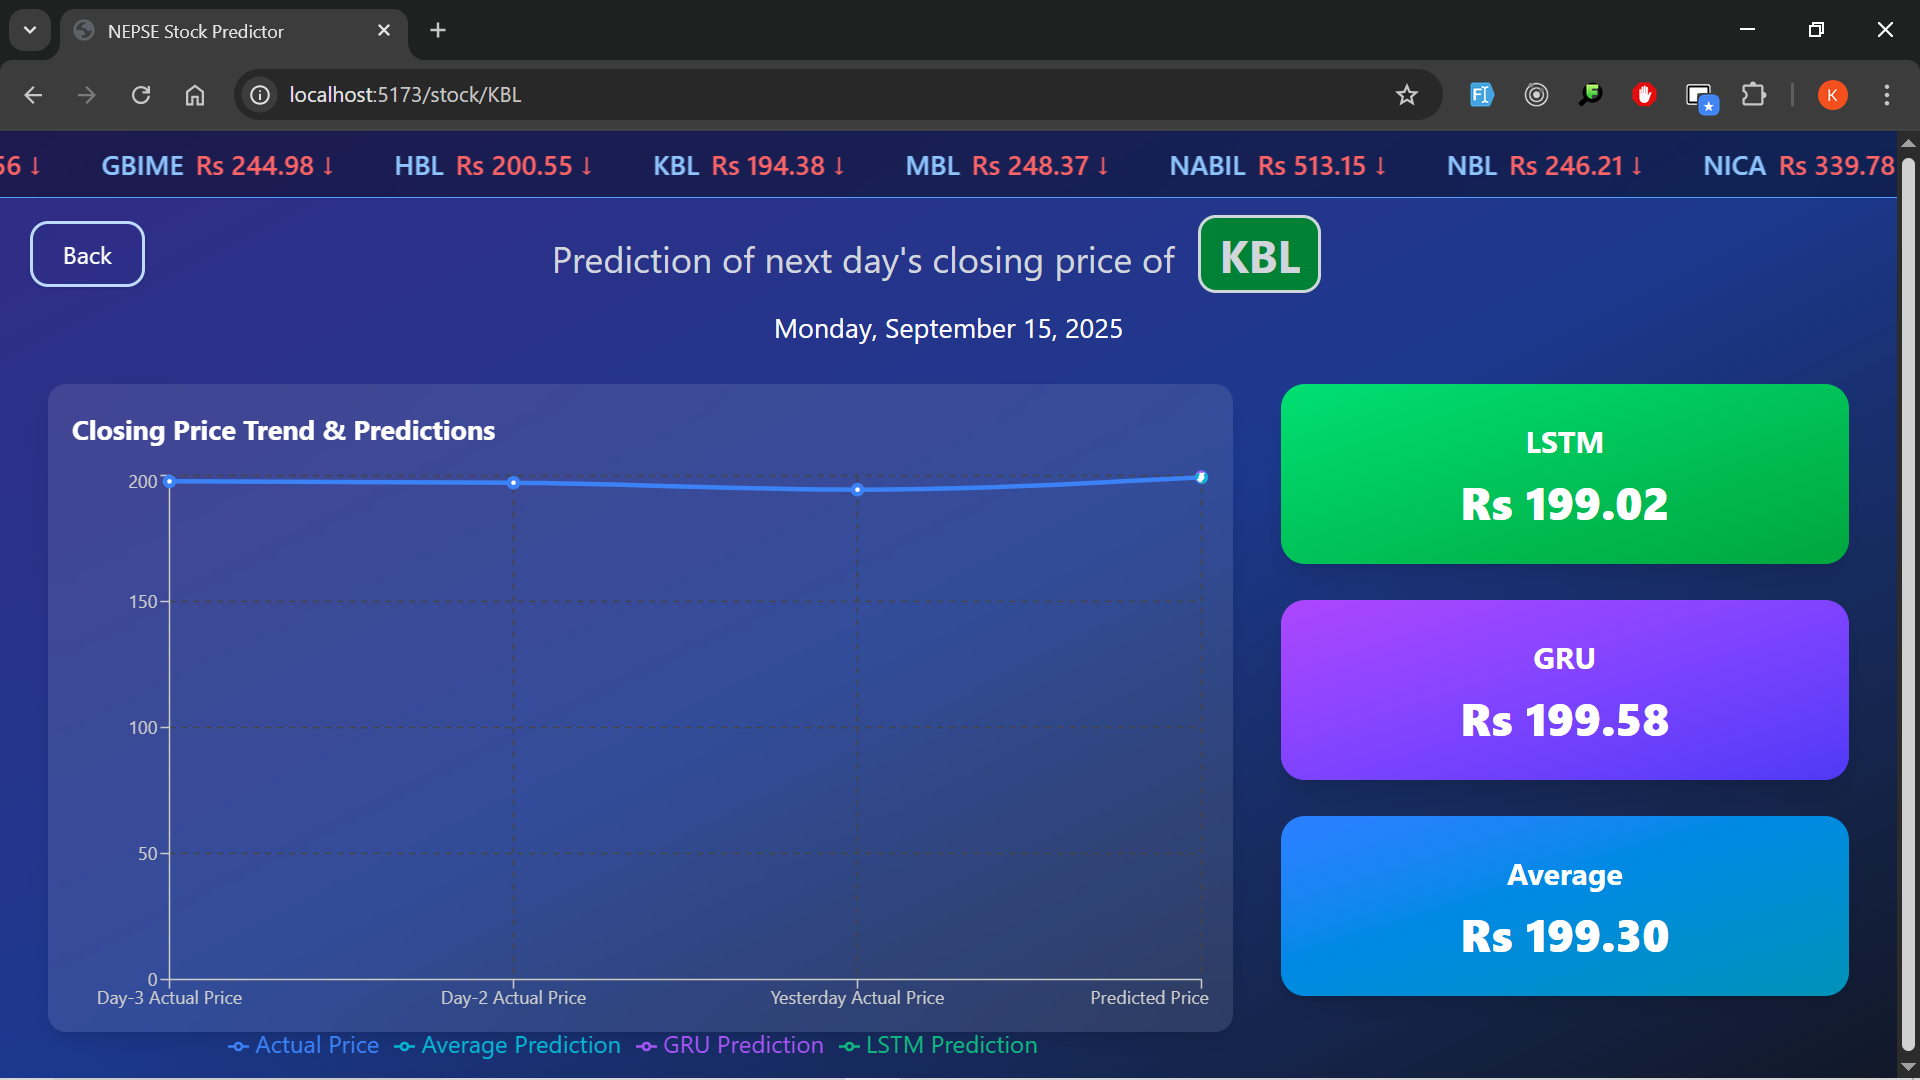
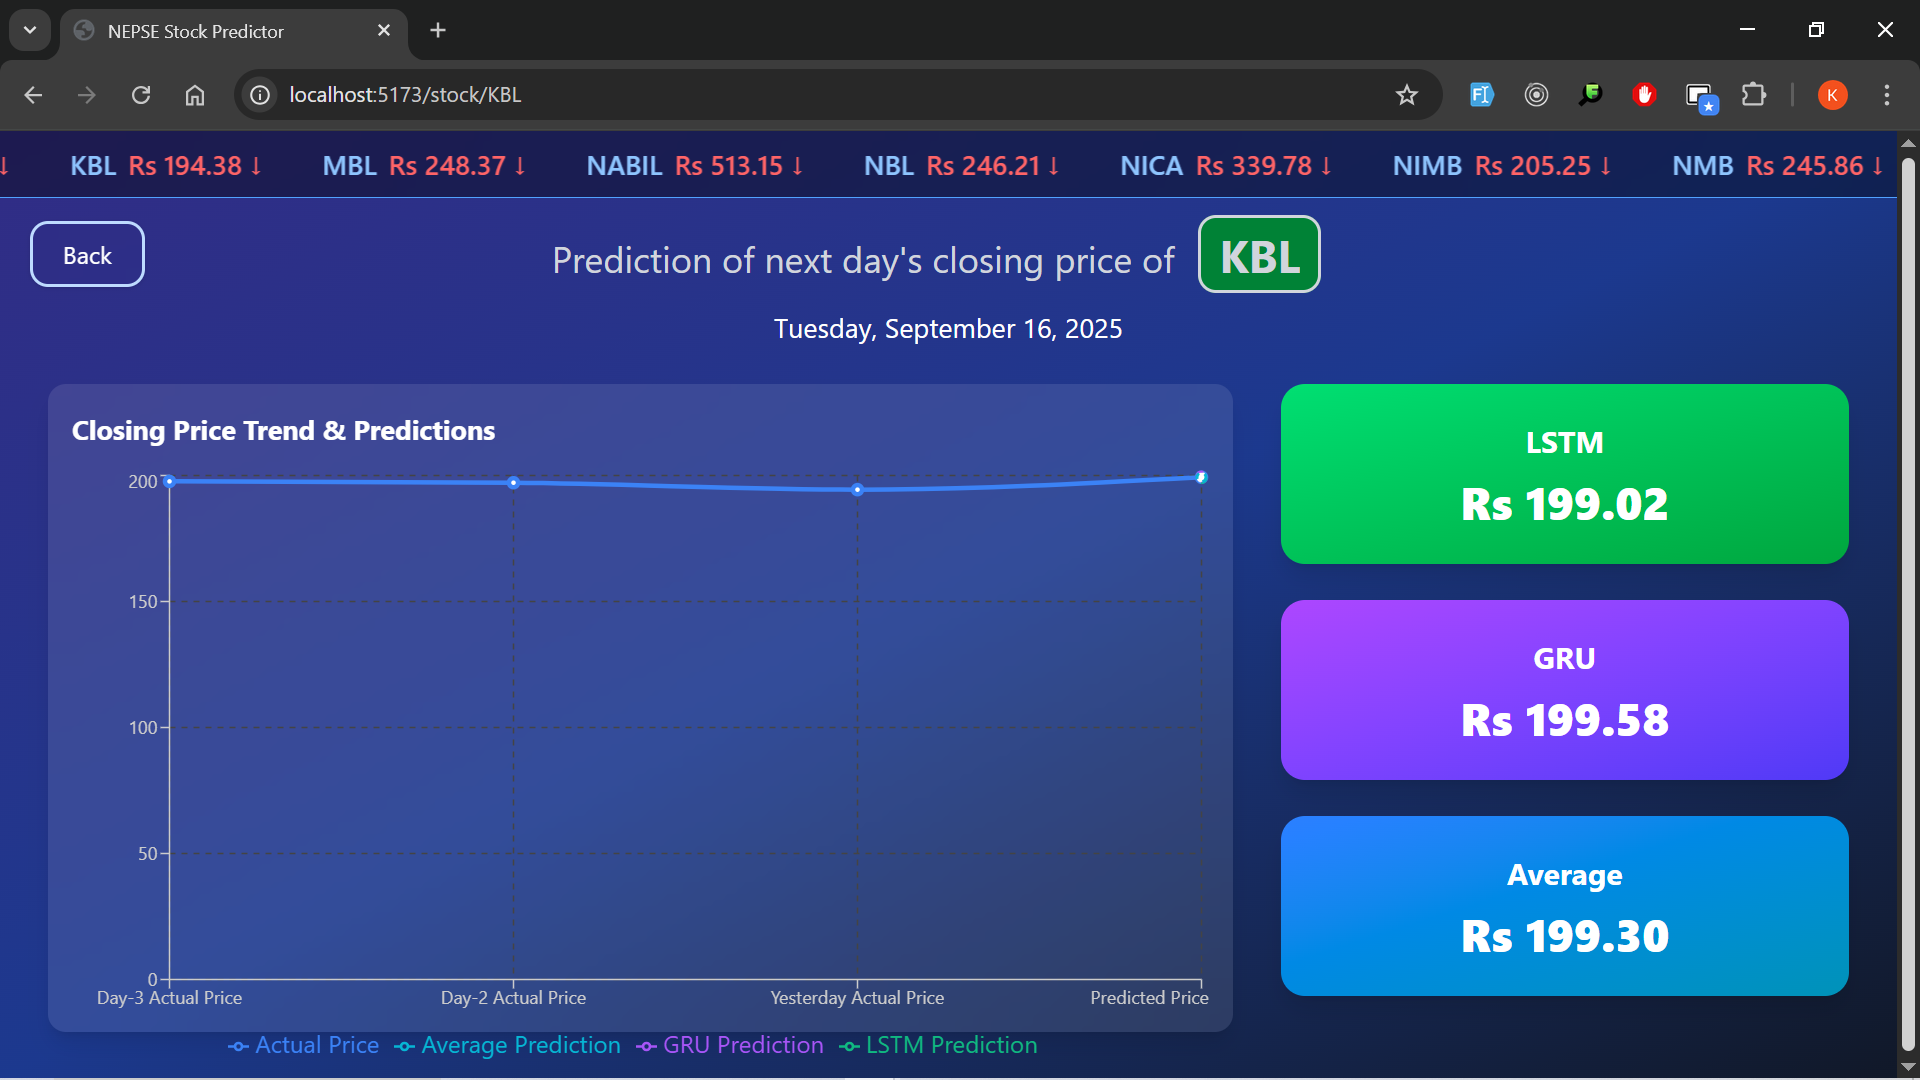
Update stock prediction date display and fix CSV output filename

Changed region(s): [[0.0312, 0.1222, 0.8438, 0.1833], [0.875, 0.1222, 1.0, 0.1833], [0.4062, 0.275, 0.4375, 0.3361]]

diff --git a/frontend/src/pages/StockPrediction.jsx b/frontend/src/pages/StockPrediction.jsx
@@ -112,12 +112,15 @@ function StockPrediction() {
     loadAllPrices();
   }, []);
 
-  const today = new Date().toLocaleDateString("en-US", {
+  const today = new Date();
+  const tomorrow = new Date(today);
+  tomorrow.setDate(today.getDate() + 1);
+  const options = {
     weekday: "long",
     year: "numeric",
     month: "long",
     day: "numeric",
-  });
+  };
 
   return (
     <div className="relative min-h-screen bg-gradient-to-br from-indigo-900 via-blue-900 to-gray-900 text-white p-8">
@@ -216,7 +219,9 @@ function StockPrediction() {
             {symbol?.toUpperCase()}
           </span>
         </p>
-        <span className="text-lg">{today}</span>
+        <span className="text-lg">
+          {tomorrow.toLocaleDateString("en-US", options)}
+        </span>
       </div>
 
       {status && (

diff --git a/backend/data_fetching/fetch_stock_data.py b/backend/data_fetching/fetch_stock_data.py
@@ -75,8 +75,4 @@ combined_df.dropna(inplace=True)
 # Sort by date
 combined_df.sort_index(inplace=True)
 
-<<<<<<< HEAD
 combined_df.to_csv("17_commercial_bank.csv")
-=======
-combined_df.to_csv("18_commercial_bank.csv")
->>>>>>> ec29de46a8be93afc49edead5173f7ebe66d5424
